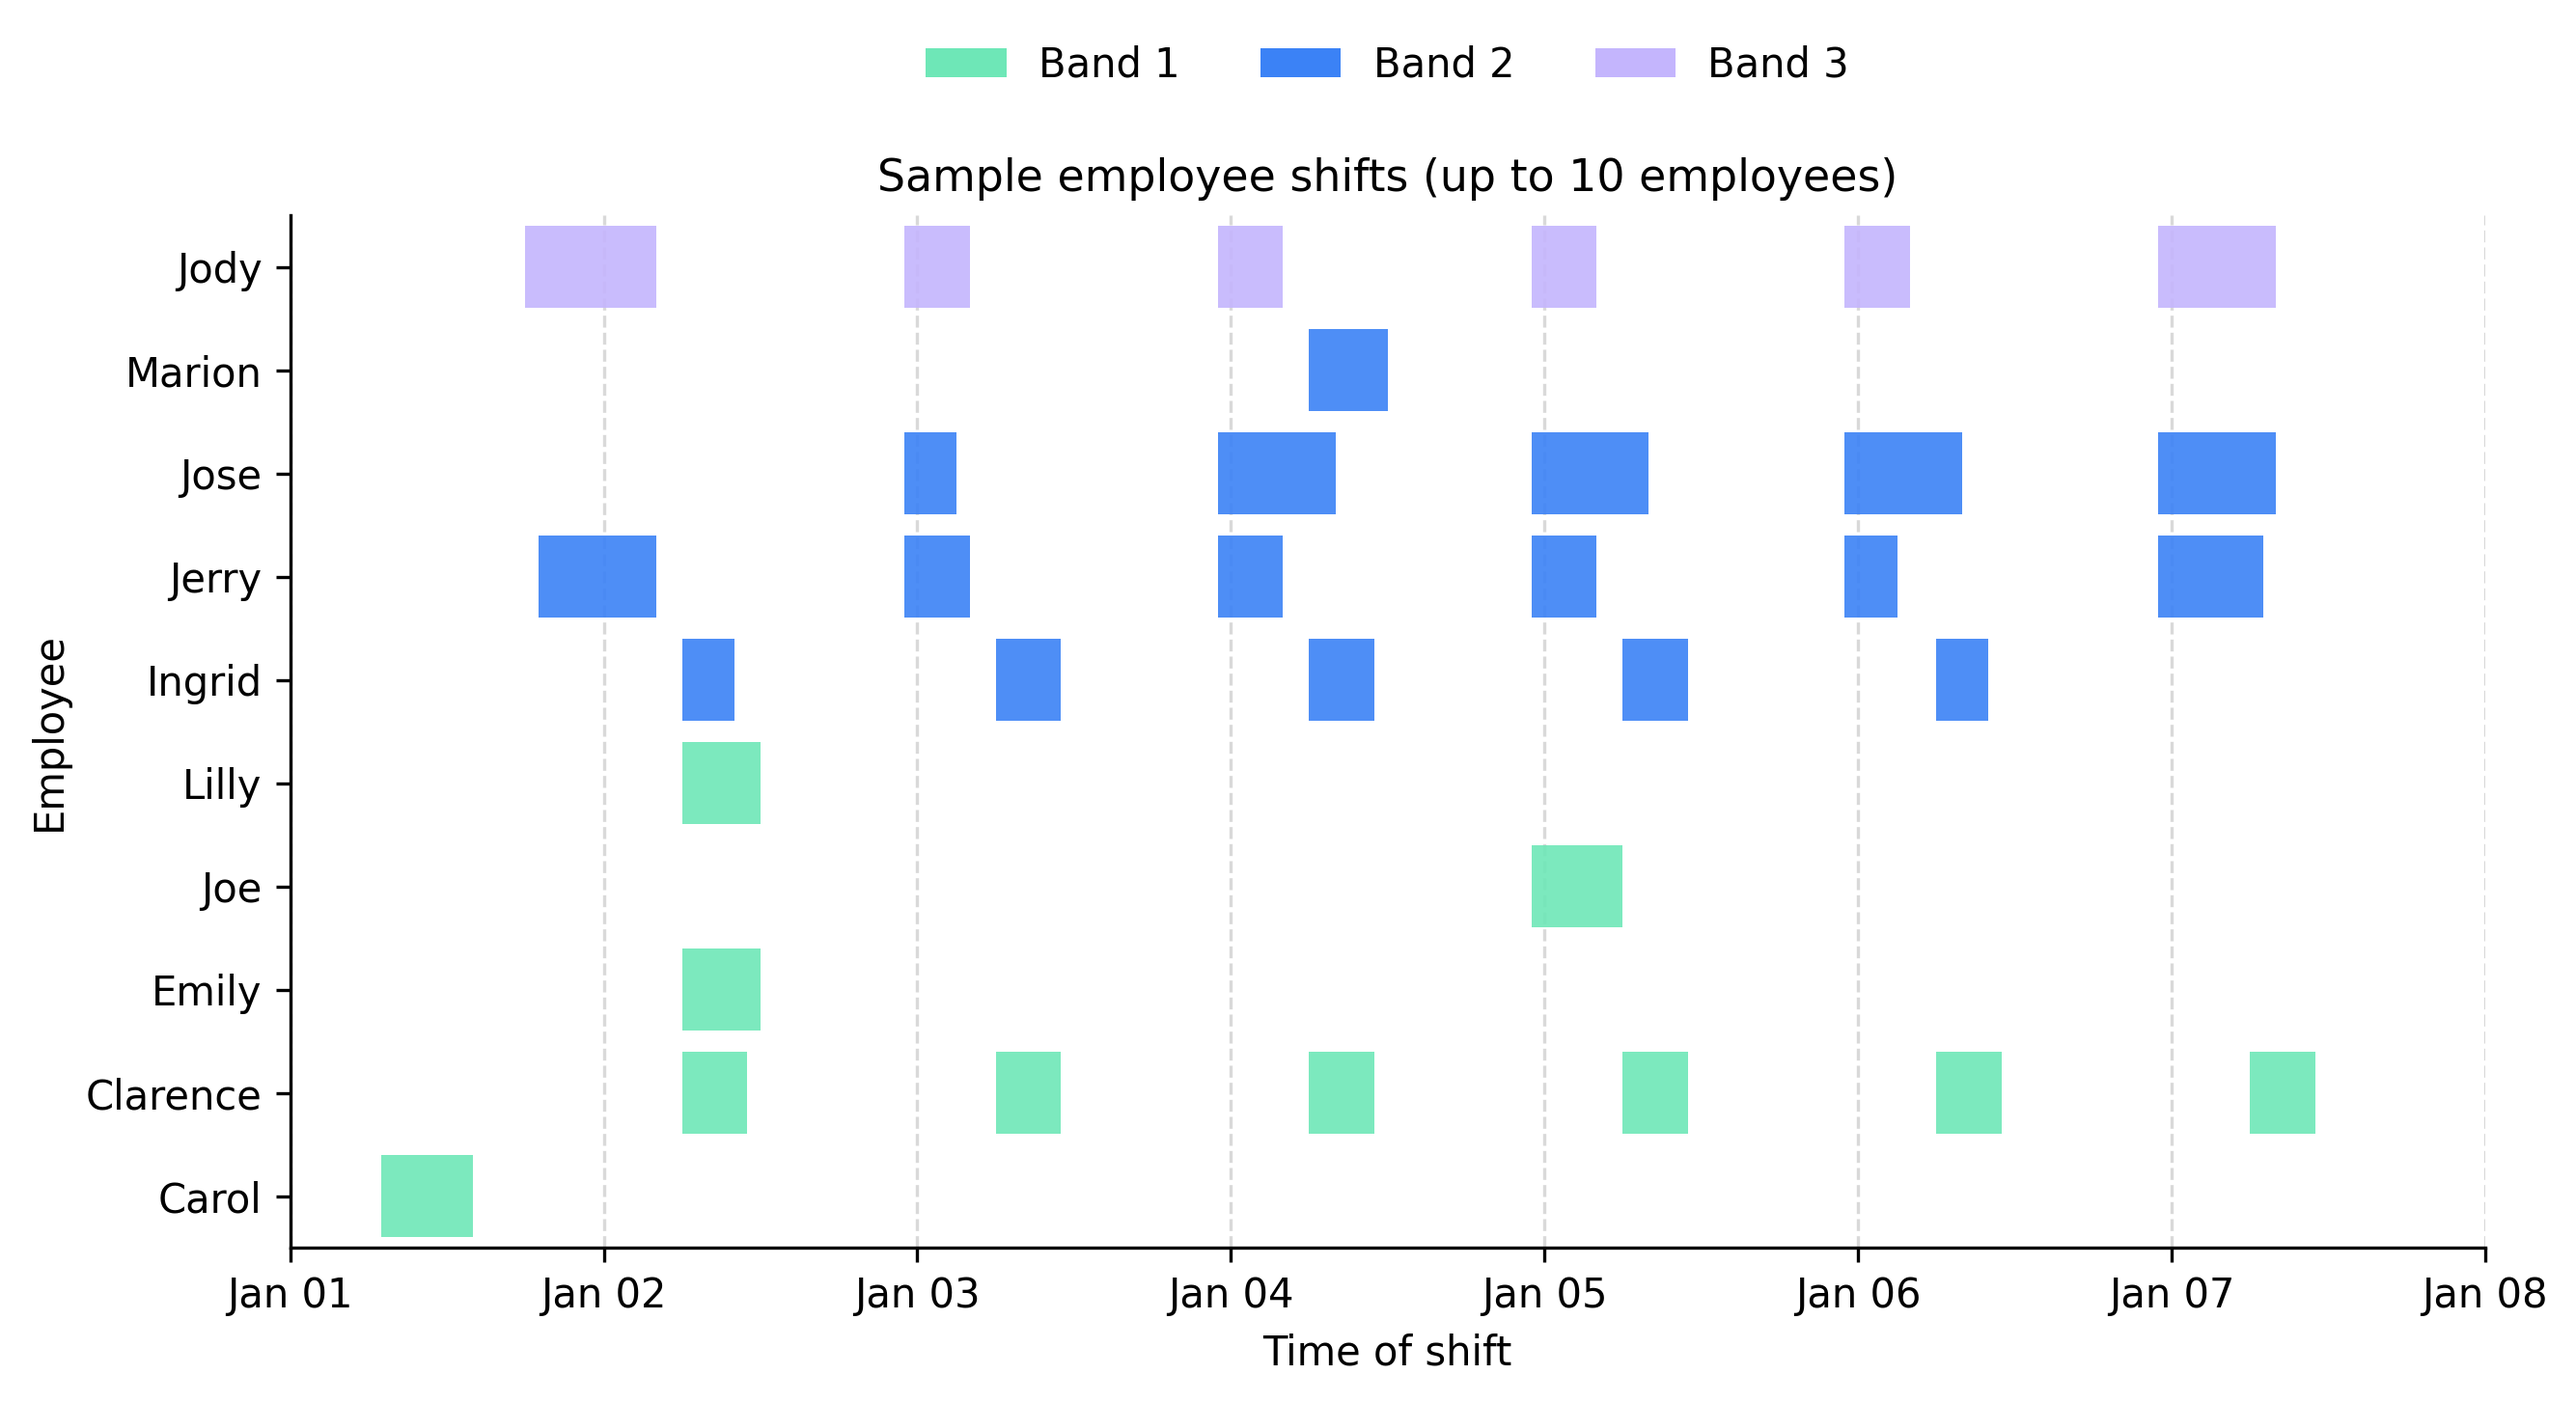
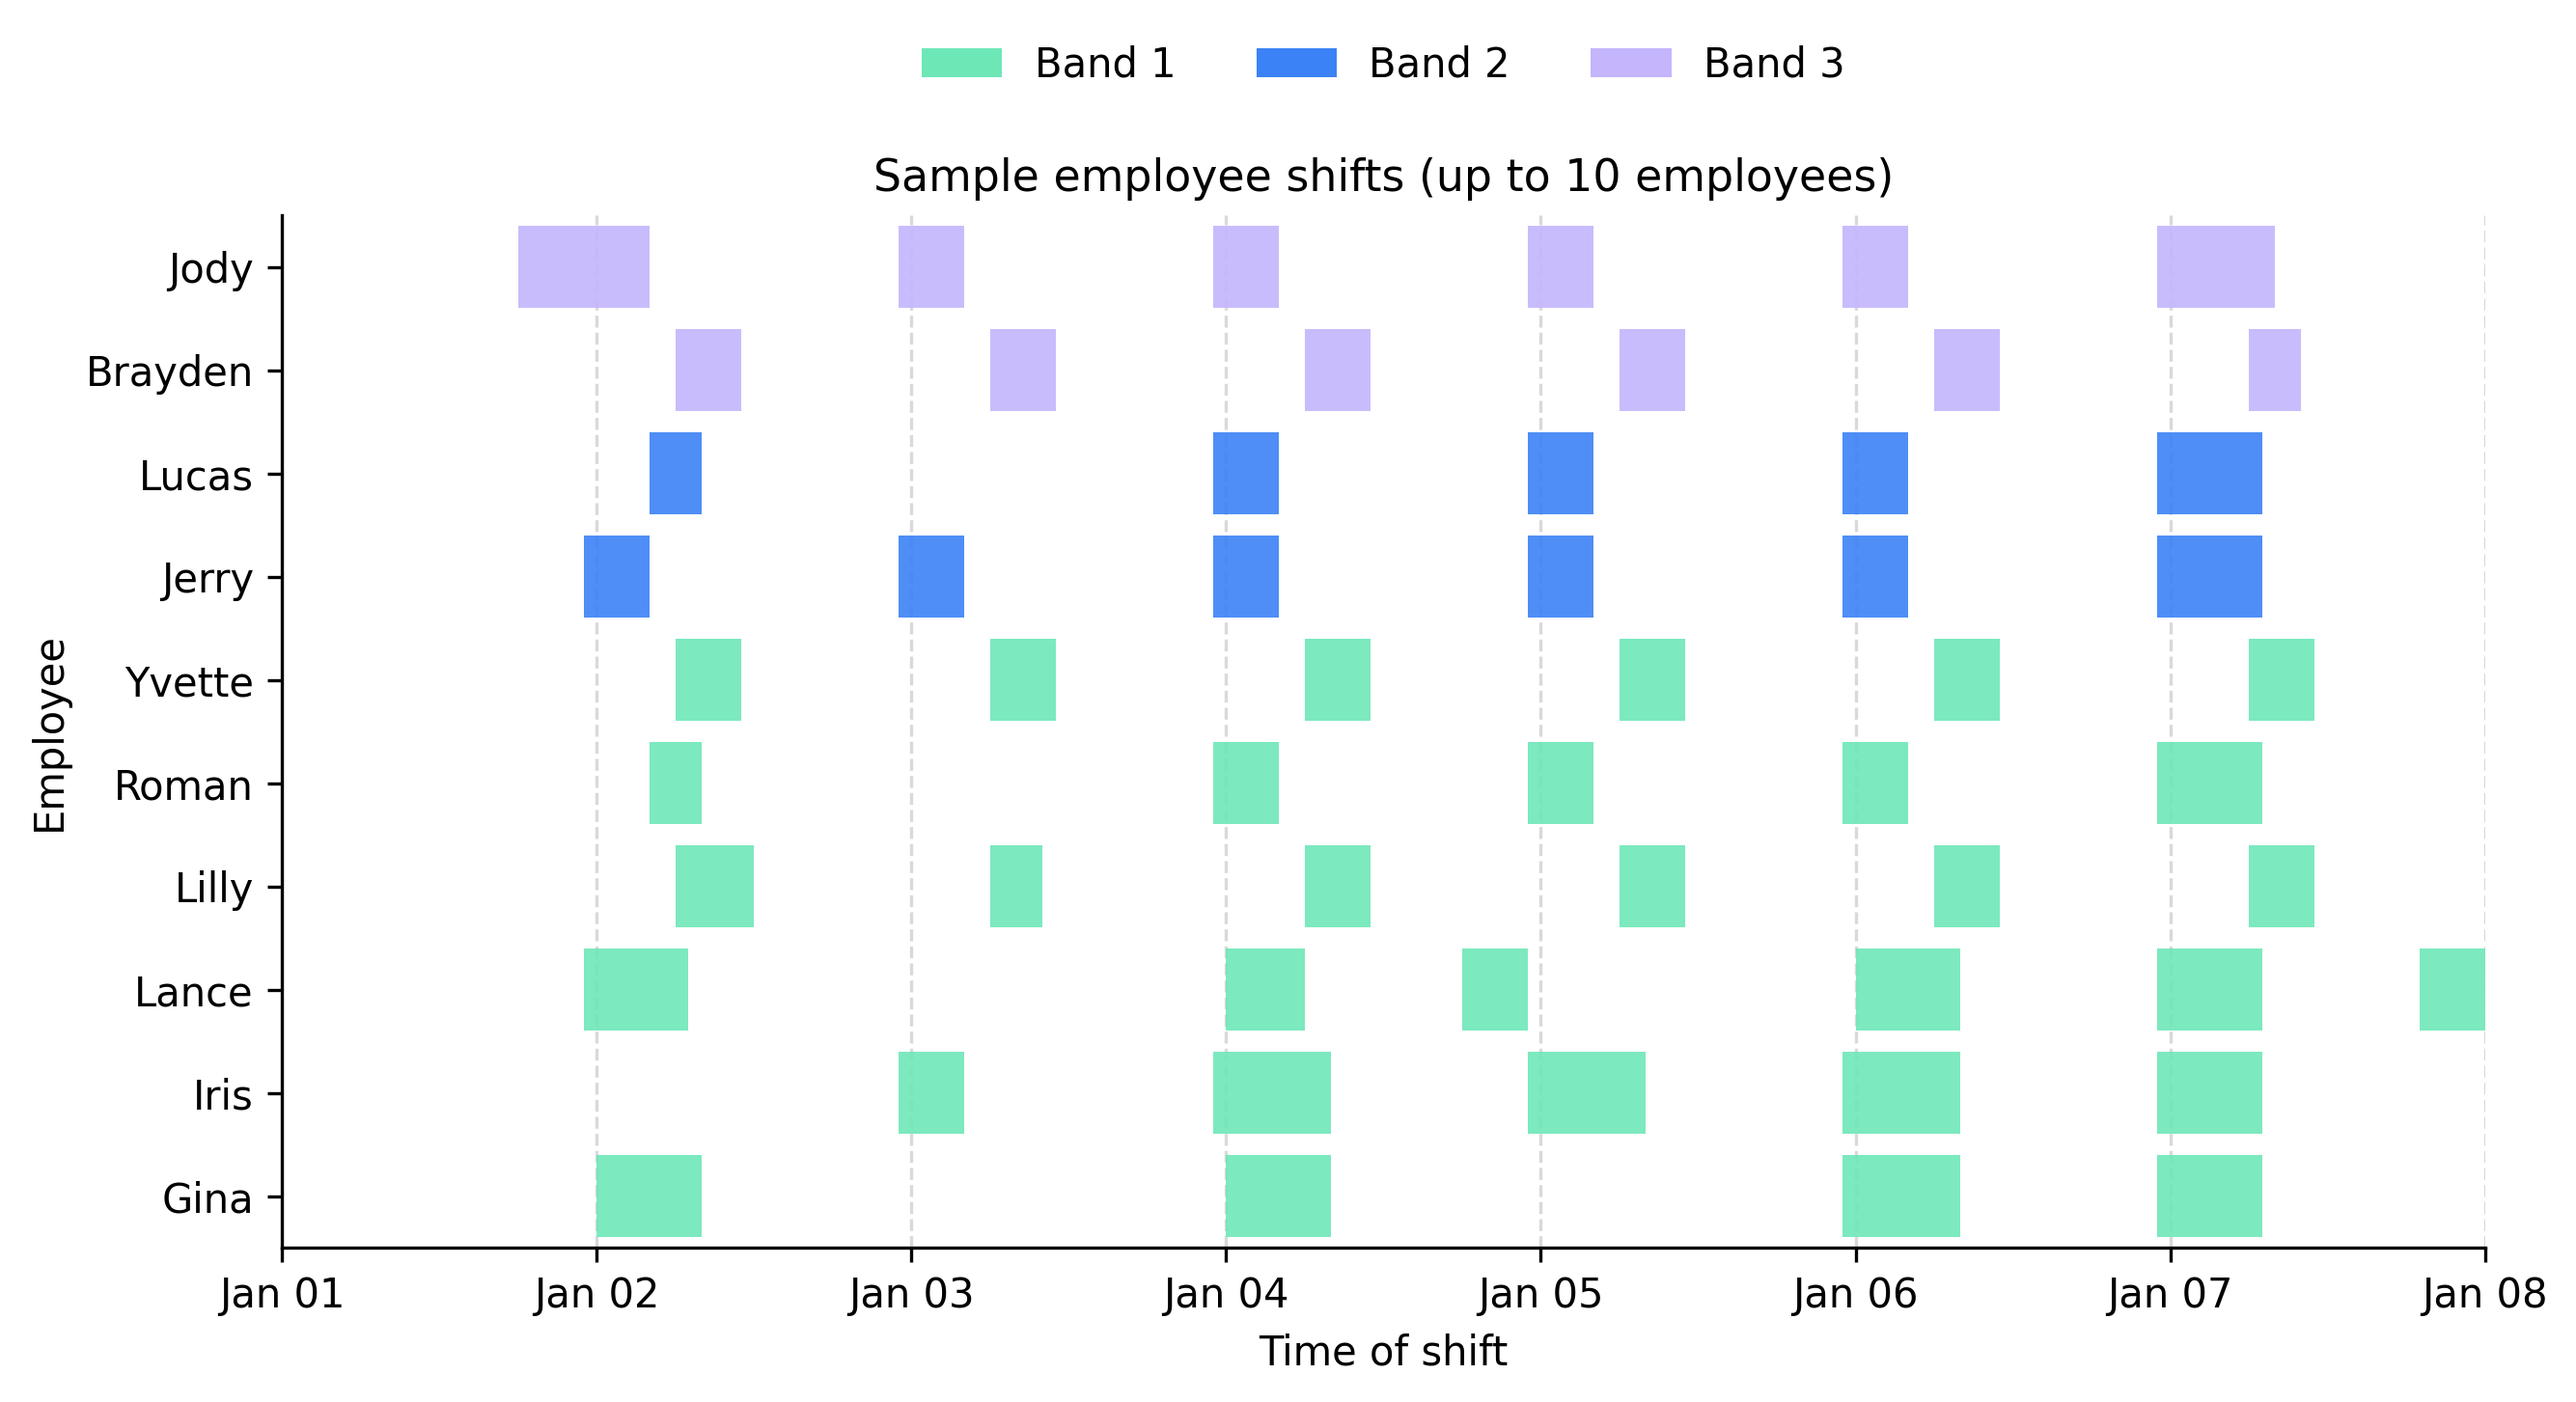
better image

diff --git a/src/rostering/output.py b/src/rostering/output.py
@@ -78,7 +78,7 @@ def sample_employee_hourly_gantt_plot(
     if num_staff == 0:
         return
 
-    rng = random.Random(cfg.SEED if cfg.SEED is not None else 999)
+    rng = random.Random(cfg.SEED if cfg.SEED is not None else 555)
     available_indices = list(range(min(hourly.shape[1], len(staff))))
     rng.shuffle(available_indices)
     chosen_indices = sorted(available_indices[:num_staff])
